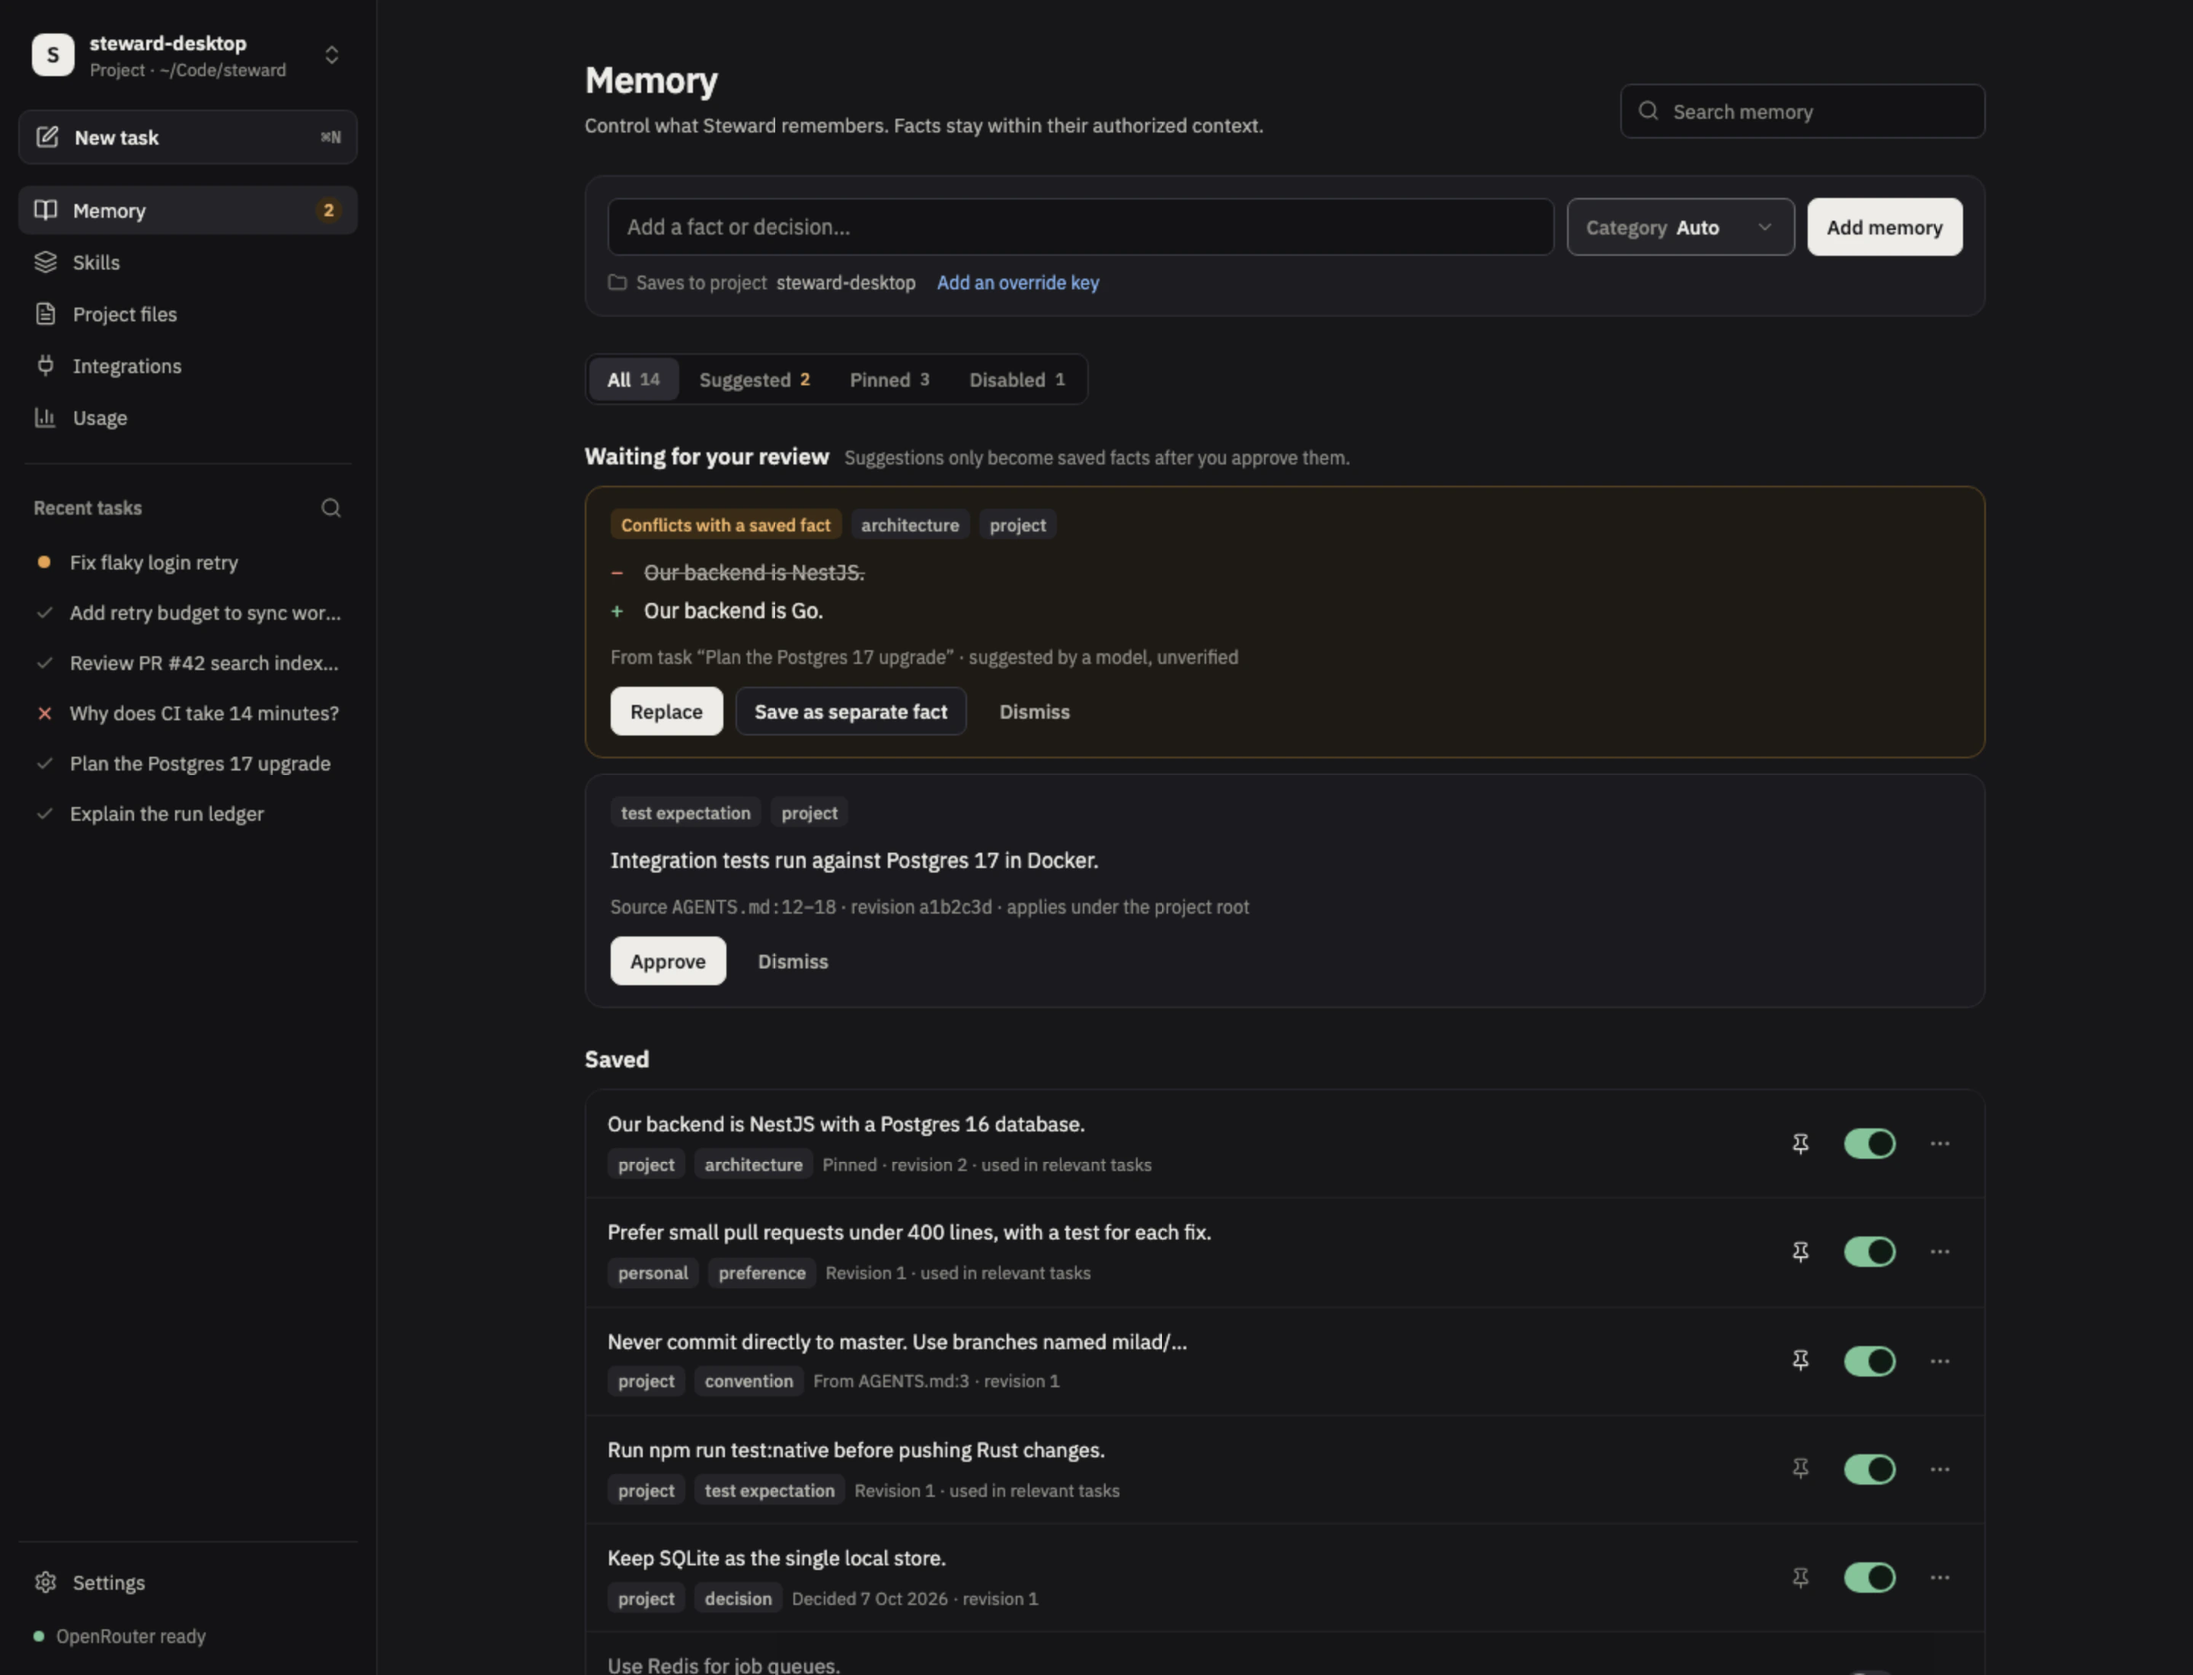
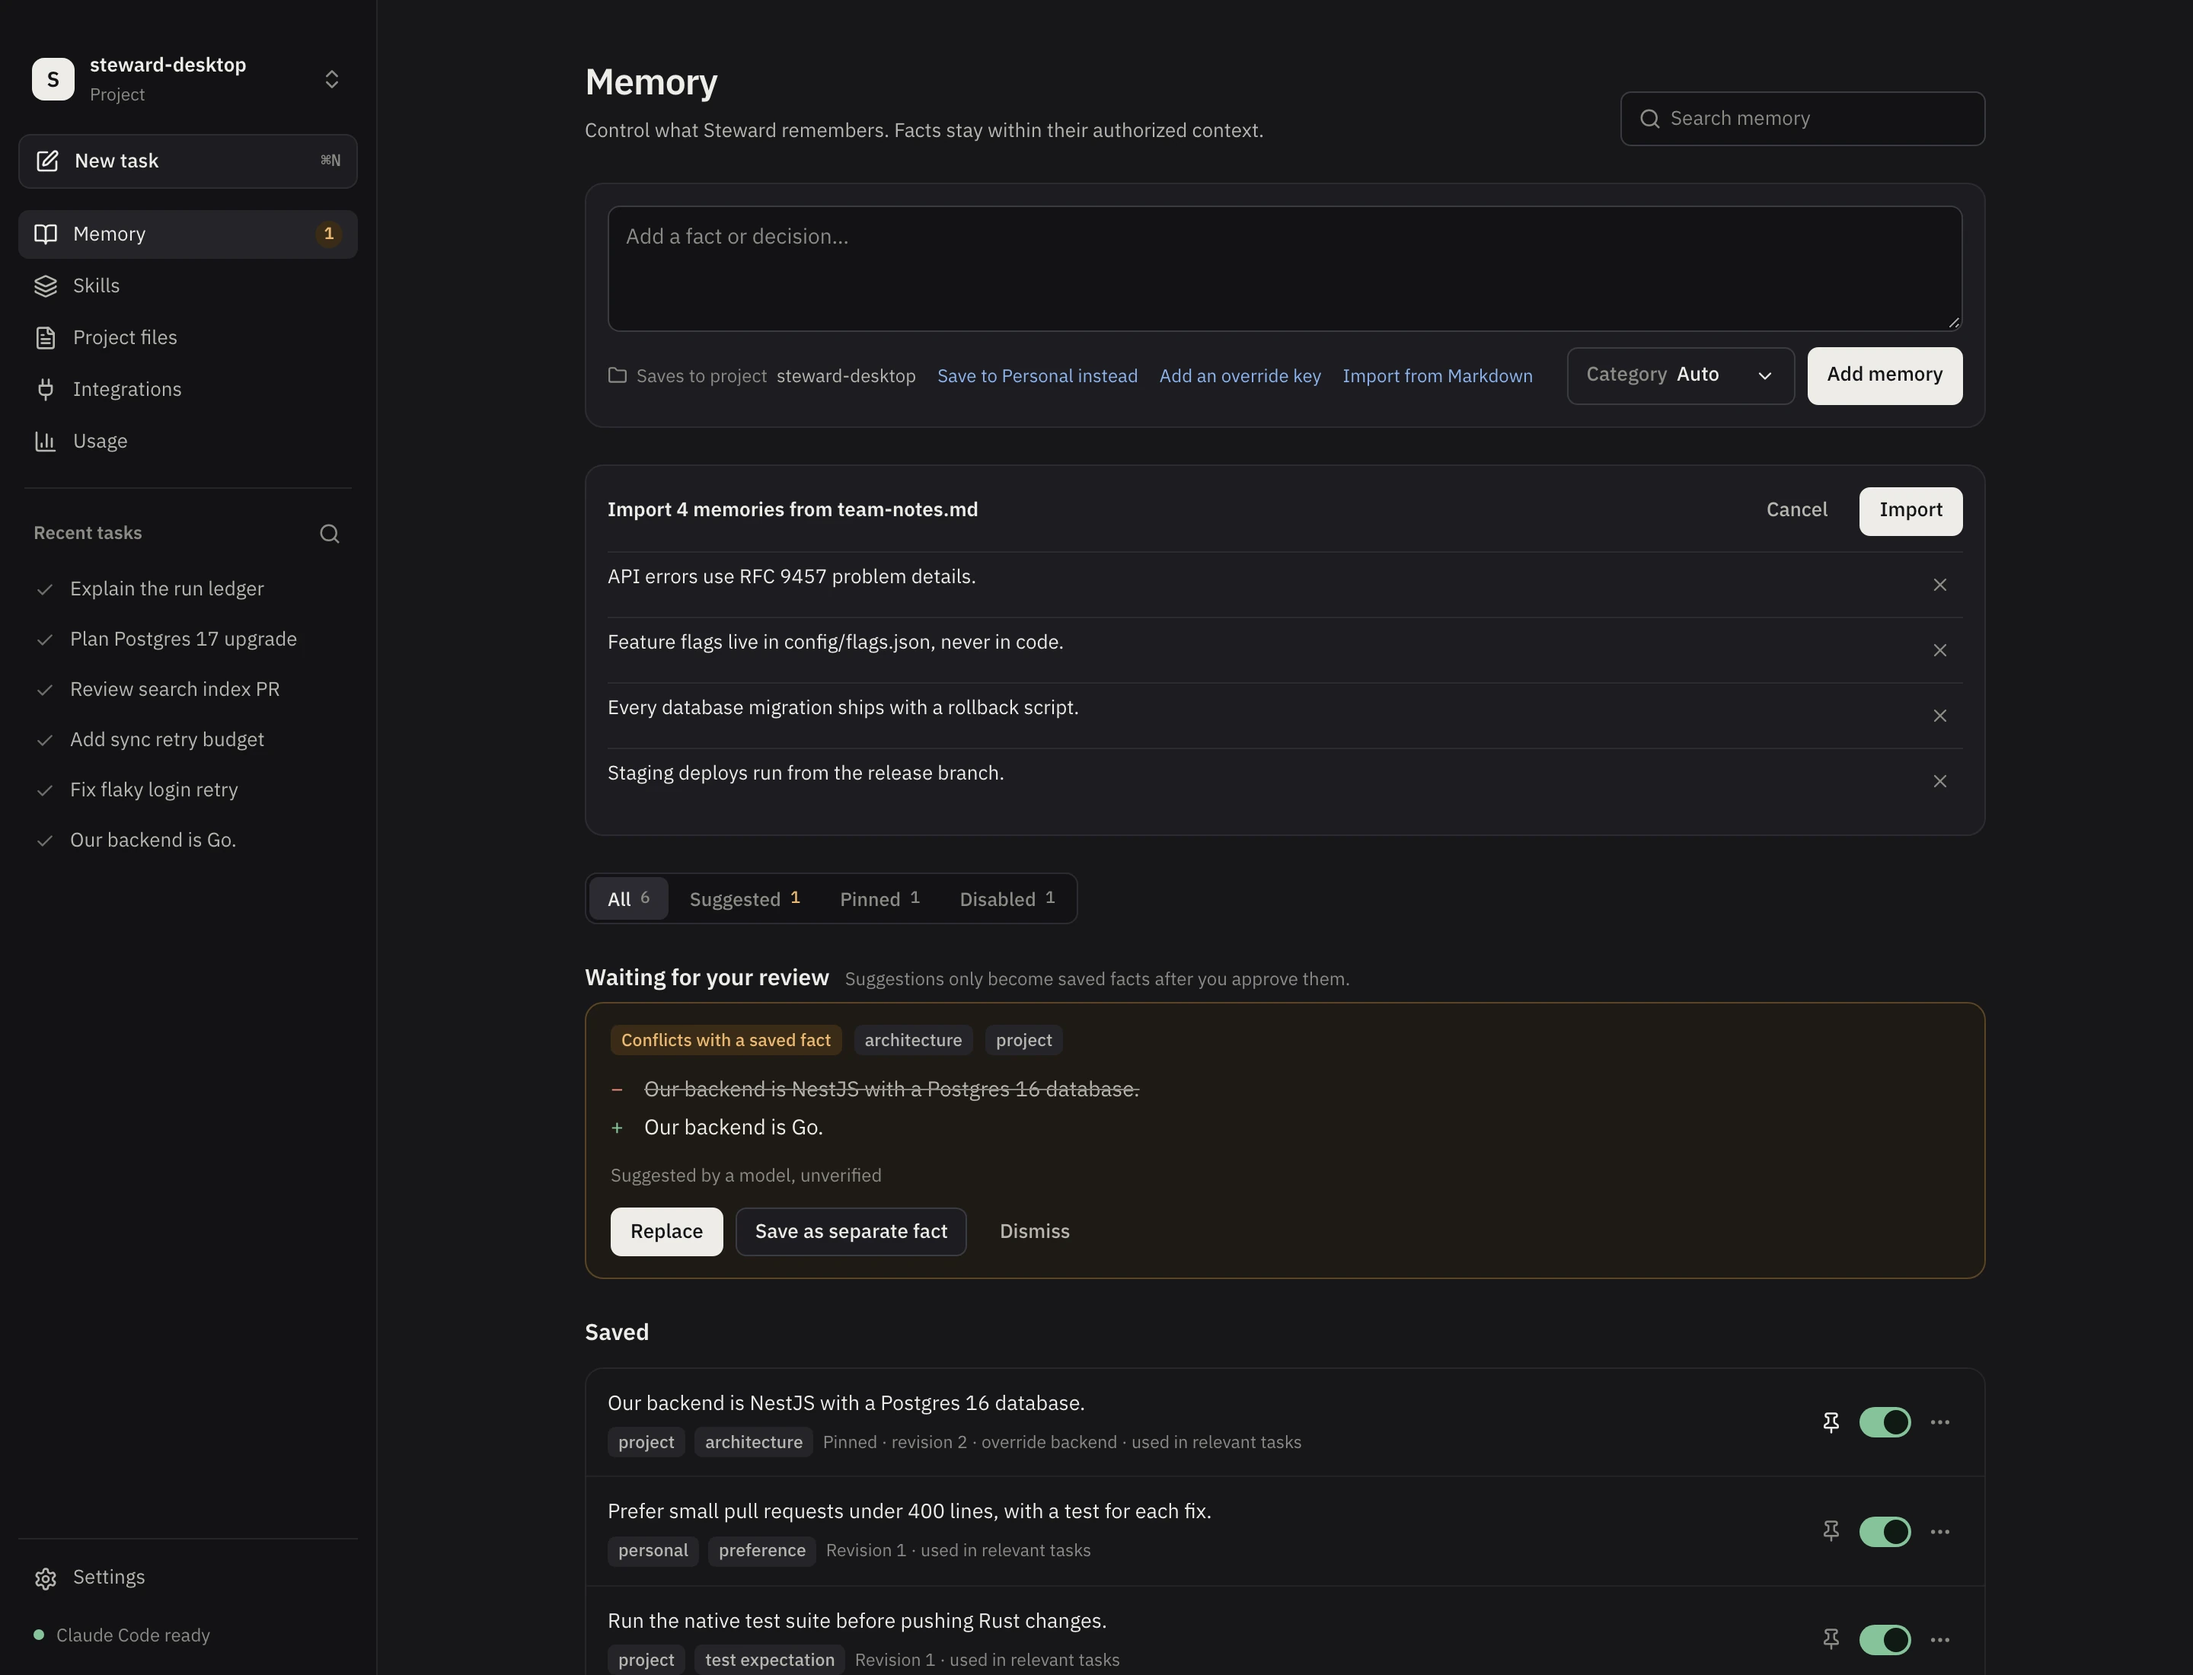
Show Markdown import on the Memory screenshot
Re-render the Memory screen from the running app at 2x: the multi-line
fact box, a Markdown import waiting for review, a conflicting suggestion
and saved facts. Update the alt text to match.

diff --git a/index.html b/index.html
@@ -298,7 +298,7 @@
           </div>
         </div>
         <figure class="shot">
-          <img src="assets/memory.webp" width="2880" height="2200" loading="lazy" decoding="async" alt="Steward's Memory screen. Two suggestions wait for review, one marked as conflicting with a saved fact with Replace, Save as separate fact and Dismiss buttons. Saved facts below have pin buttons and on and off toggles.">
+          <img src="assets/memory.webp" width="2880" height="2200" loading="lazy" decoding="async" alt="Steward's Memory screen. Under a multi-line box for adding a fact, a review list shows four facts imported from a Markdown file, each with a remove button, and Cancel and Import buttons. Below it, a suggestion that conflicts with a saved fact offers Replace, Save as separate fact and Dismiss. Saved facts have pin buttons and on and off toggles.">
         </figure>
       </div>
     </section>
